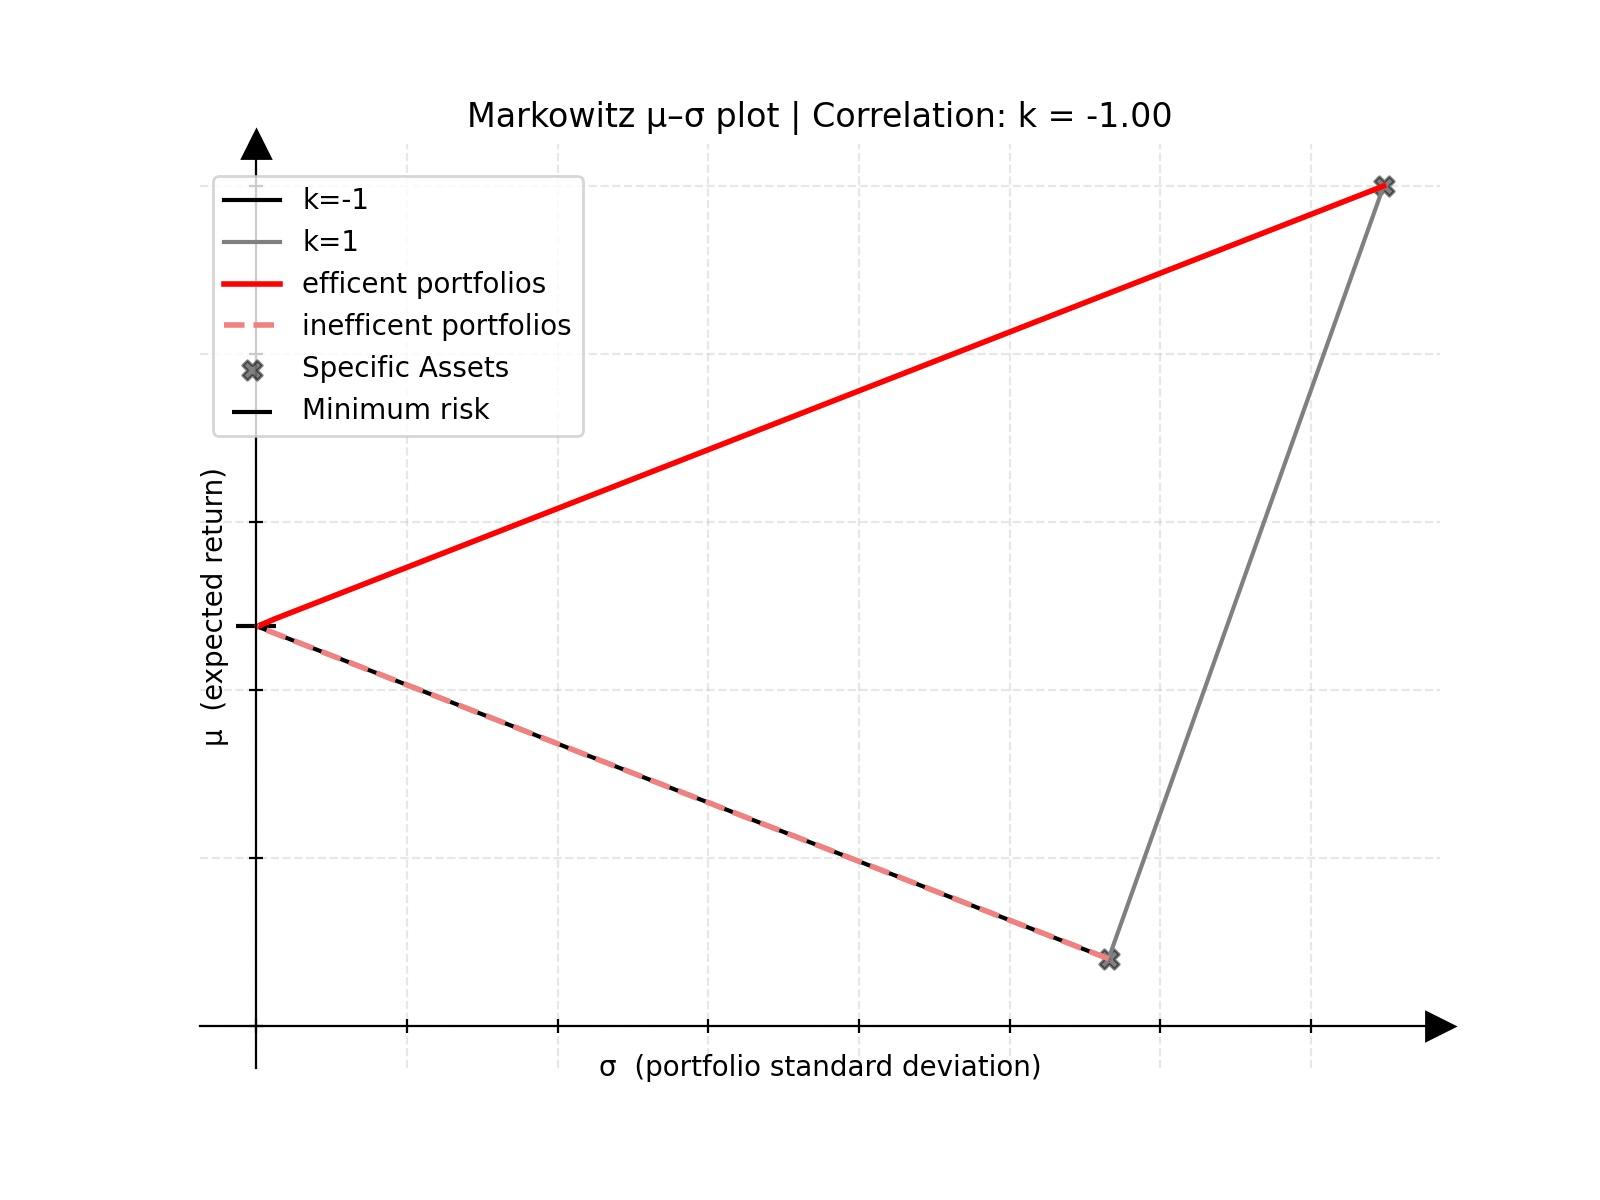
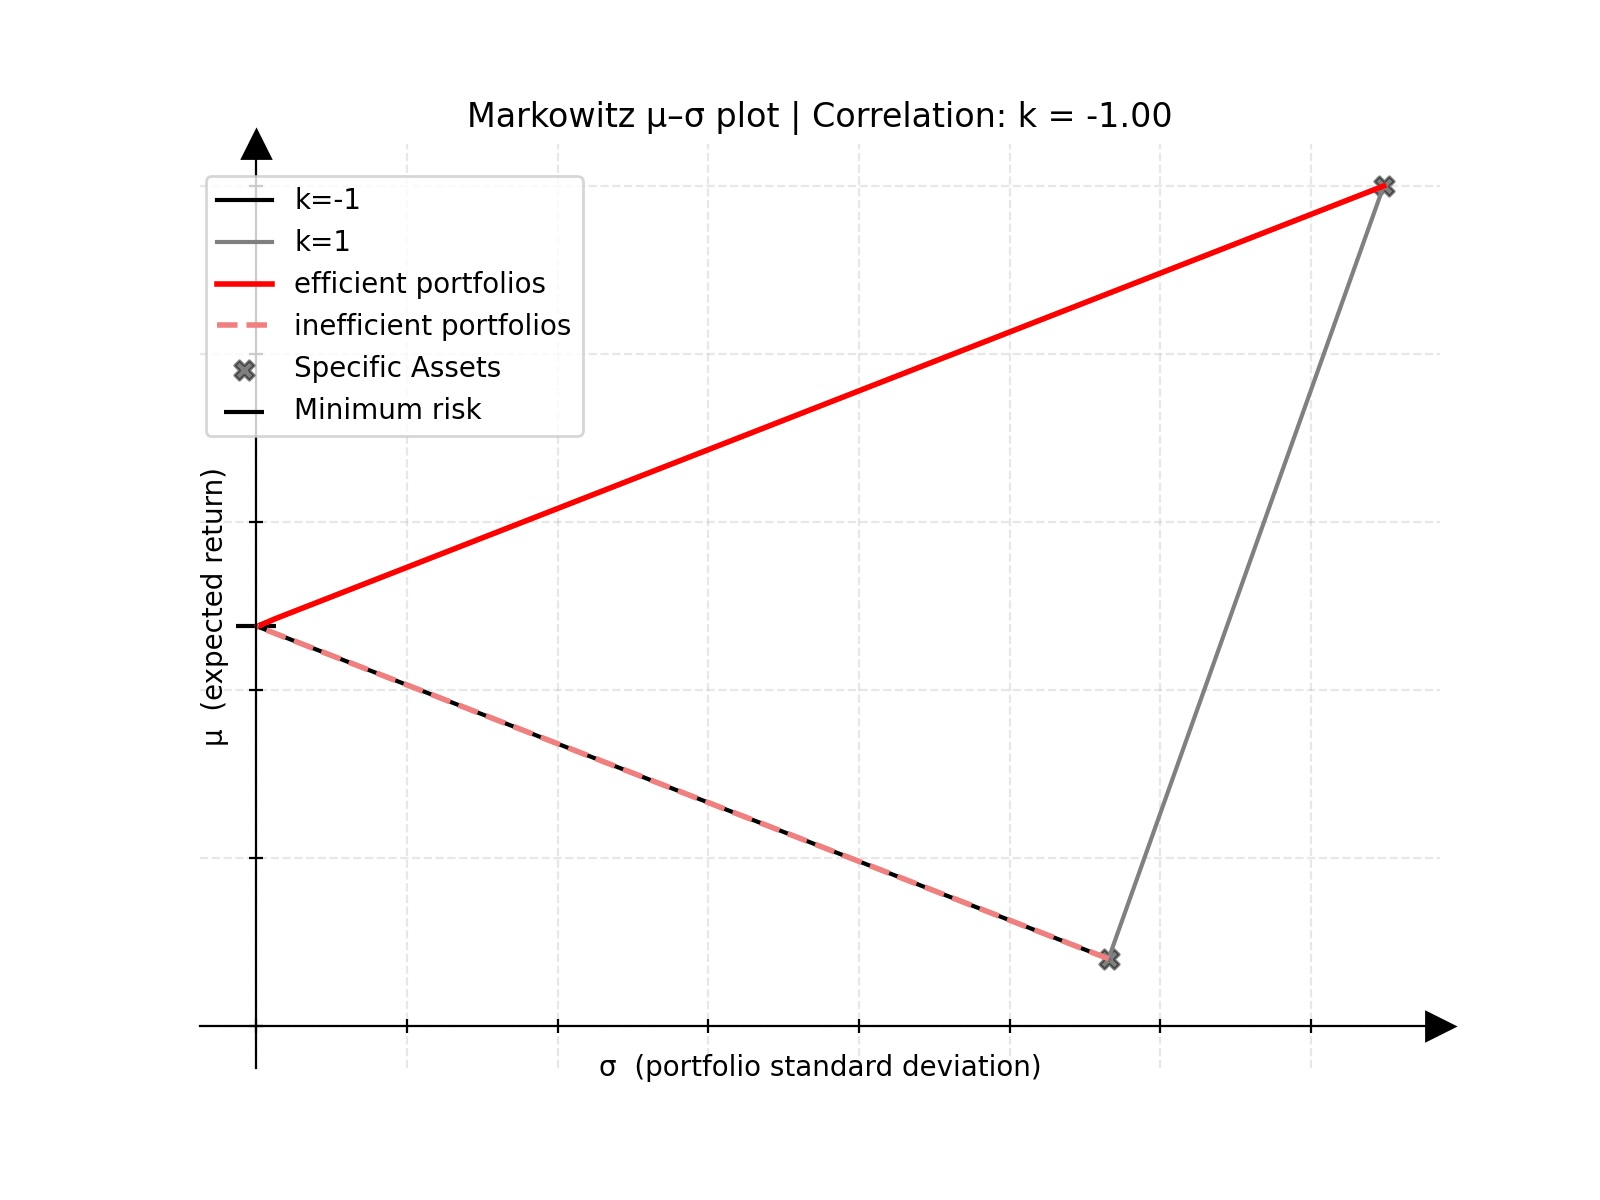
fix spelling error in correlation animation

Changed region(s): [[0.1875, 0.1542, 0.3125, 0.37], [0.125, 0.1542, 0.1562, 0.37], [0.3125, 0.2467, 0.3438, 0.2775]]

diff --git a/pre_made_plots_scripts/generate_correlation_animation.py b/pre_made_plots_scripts/generate_correlation_animation.py
@@ -55,8 +55,8 @@ with plt.rc_context(rc):
         ax.plot(sigmas, mus, linestyle='-', color=color, label=label)
 
     # Dynamic animated line
-    (eff_line,) = ax.plot([], [], color='red', lw=2, label='efficent portfolios')
-    (ineff_line,) = ax.plot([], [], color='lightcoral' , lw=2, linestyle='--', label='inefficent portfolios')
+    (eff_line,) = ax.plot([], [], color='red', lw=2, label='efficient portfolios')
+    (ineff_line,) = ax.plot([], [], color='lightcoral' , lw=2, linestyle='--', label='inefficient portfolios')
 
     # Highlight individual assets
     ax.scatter(np.sqrt(s), m, s=50, alpha=0.5, color="black", marker='X', label='Specific Assets')
